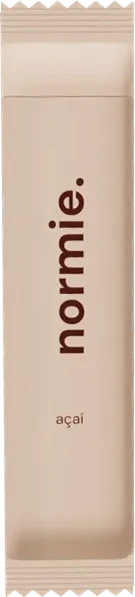
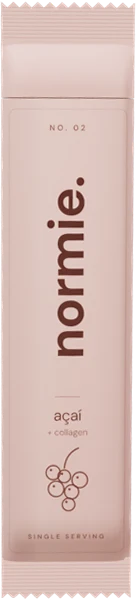
Preview: redesigned packets, hero back to live look
- Labels: tonal gradient, inset frame, NO. 01-03, flavor note, line illustrations
- Soft-touch materials, finer crimps, extra fill and rim light
- Recut stick images for pour animation and mobile poster
- Remove hero color blobs

Claude-Session: https://claude.ai/code/session_01AsfYy7Hh7JQZ22psSenmVY

diff --git a/index.html b/index.html
@@ -1,4 +1,4 @@
-<!doctype html><html lang="en"><head><meta charset="UTF-8"><meta http-equiv="Content-Security-Policy" content="default-src 'self'; script-src 'self'; style-src 'self' 'unsafe-inline'; img-src 'self' data: blob:; media-src 'self'; font-src 'self'; connect-src 'self' https://*.supabase.co wss://*.supabase.co; form-action 'self'; base-uri 'self'; object-src 'none'"><meta name="referrer" content="strict-origin-when-cross-origin"><meta name="viewport" content="width=device-width,initial-scale=1"><meta name="theme-color" content="#f5f2eb"><meta name="description" content="Build a 6- or 12-pack of normie drink sticks: matcha, açaí + collagen, and tiramisu coffee. Tear, pour, stir. Reserve your first box and get 10% off."><title>normie. matcha, açaí + collagen, and tiramisu coffee drink sticks</title><link rel="canonical" href="https://buynormie.com/"><meta property="og:type" content="website"><meta property="og:site_name" content="normie."><meta property="og:title" content="normie. matcha, açaí + collagen, and tiramisu coffee drink sticks"><meta property="og:description" content="Build a 6- or 12-pack of normie drink sticks: matcha, açaí + collagen, and tiramisu coffee. Tear, pour, stir. Reserve your first box and get 10% off."><meta property="og:url" content="https://buynormie.com/"><meta property="og:image" content="https://buynormie.com/assets/og-home.jpg"><meta property="og:image:width" content="1200"><meta property="og:image:height" content="630"><meta name="twitter:card" content="summary_large_image"><meta name="twitter:title" content="normie. matcha, açaí + collagen, and tiramisu coffee drink sticks"><meta name="twitter:description" content="Build a 6- or 12-pack of normie drink sticks: matcha, açaí + collagen, and tiramisu coffee. Tear, pour, stir. Reserve your first box and get 10% off."><meta name="twitter:image" content="https://buynormie.com/assets/og-home.jpg"><link rel="icon" href="./assets/favicon.svg"><link rel="preload" as="font" href="./assets/dm-sans-regular.ttf" type="font/ttf" crossorigin><link rel="stylesheet" href="./styles.css?v=20261112a"><script src="./vendor/supabase.js"></script><script type="module" src="./app.js?v=20261112a"></script><script type="module" src="./studio-loader.js?v=20261112a"></script><script type="module" src="./order.js?v=20261112a"></script><script type="module" src="./pour.js?v=20261112a"></script><script type="module" src="./fx.js?v=20261112a"></script></head><body data-page="home"><a href="#main" class="skip-link">Skip to content</a><div class="announcement">first boxes are coming <span aria-hidden="true">✦</span> <a href="#order">reserve your box</a></div><header class="header"><div class="header-inner"><button class="icon-button mobile-only" data-open="menu" aria-label="Open menu"><span class="menu-icon" aria-hidden="true"></span></button><a class="wordmark" href="./index.html" aria-label="Normie home">normie.</a><nav class="desktop-nav" aria-label="Main navigation"><div class="nav-dropdown"><button class="nav-link" aria-expanded="false" aria-controls="collection-menu" data-nav-toggle>the collection <span aria-hidden="true">⌄</span></button><div class="mega-menu" id="collection-menu" hidden><p class="eyebrow">find your everyday</p><div class="mega-products"><a href="./products/matcha/index.html"><div class="image-frame " style="--product-color:#dce3ce"><img src="./assets/matcha.webp" alt="Normie matcha stick with a prepared drink." width="1024" height="1280" loading="lazy" decoding="async"><span class="image-error" hidden>normie. matcha<small>Image unavailable. Explore the flavor details below.</small></span></div><span>matcha ↗</span></a><a href="./products/acai/index.html"><div class="image-frame " style="--product-color:#ead8d9"><img src="./assets/acai.webp" alt="Normie açaí stick with a prepared drink." width="1024" height="1280" loading="lazy" decoding="async"><span class="image-error" hidden>normie. açaí<small>Image unavailable. Explore the flavor details below.</small></span></div><span>açaí ↗</span></a><a href="./products/coffee/index.html"><div class="image-frame " style="--product-color:#e4d7c7"><img src="./assets/coffee.webp" alt="Normie tiramisu coffee stick with a prepared drink." width="1024" height="1280" loading="lazy" decoding="async"><span class="image-error" hidden>normie. tiramisu coffee<small>Image unavailable. Explore the flavor details below.</small></span></div><span>tiramisu coffee ↗</span></a></div><a class="text-link" href="./collection/index.html">explore all flavors ↗</a></div></div><a class="nav-link" href="./about/index.html">our story</a><a class="nav-link" href="./help/index.html">good to know</a></nav><div class="header-actions"><a class="account-pill" href="./index.html#account" data-account-open aria-label="Sign in or view your account"><svg viewBox="0 0 24 24" aria-hidden="true"><circle cx="12" cy="8.5" r="3.8"/><path d="M4.5 20.5c1.4-3.6 4.2-5.4 7.5-5.4s6.1 1.8 7.5 5.4"/></svg><span class="account-label" data-account-label>sign in</span></a><a class="order-pill" href="#order" data-track="cta_reserve_header">reserve</a><button class="icon-button" data-open="search" aria-label="Search flavors"><svg viewBox="0 0 24 24" aria-hidden="true"><circle cx="10.5" cy="10.5" r="6.5"/><path d="m16 16 5 5"/></svg></button><button class="bag-button" data-open="saved" aria-label="Your saved flavors"><span class="desktop-only">your shortlist</span><svg class="mobile-only" viewBox="0 0 24 24" aria-hidden="true"><path d="M5 5h14v17l-7-5-7 5z"/></svg><span class="save-count">0</span></button></div></div><div class="scroll-progress" aria-hidden="true"><span></span></div></header><div class="header-sentinel" aria-hidden="true"></div><main id="main"><section class="pop-hero"><div class="hero-blobs" aria-hidden="true"><span class="b1"></span><span class="b2"></span><span class="b3"></span></div><div class="pop-hero-inner"><div class="pop-hero-copy"><p class="pop-kicker">matcha · açaí · tiramisu coffee</p><h1>a little ritual.<br>all yours.</h1><p class="pop-lead">Build a 6-pack or 12-pack of matcha, açaí and tiramisu coffee drink sticks, mixed your way. Tear, pour, and stir into cold water or milk.</p><div class="pop-actions"><a class="pop-btn" href="#order" data-track="cta_reserve_hero">reserve your box</a><a class="pop-link" href="#order">build your box ↓</a></div><ul class="hero-chips" aria-label="Why normie"><li><svg viewBox="0 0 16 16" aria-hidden="true"><path d="M3.5 8.5l3 3 6-7" fill="none" stroke="currentColor" stroke-width="1.8" stroke-linecap="round" stroke-linejoin="round"/></svg>3 flavors</li><li><svg viewBox="0 0 16 16" aria-hidden="true"><path d="M3.5 8.5l3 3 6-7" fill="none" stroke="currentColor" stroke-width="1.8" stroke-linecap="round" stroke-linejoin="round"/></svg>mix your own box</li><li><svg viewBox="0 0 16 16" aria-hidden="true"><path d="M3.5 8.5l3 3 6-7" fill="none" stroke="currentColor" stroke-width="1.8" stroke-linecap="round" stroke-linejoin="round"/></svg>rewards on every box</li></ul><p class="waitlist-count" data-waitlist-count hidden><span class="status-dot" aria-hidden="true"></span><span data-count></span> people are waiting for their first box</p></div><div class="studio pop-studio" data-studio="all" data-bare data-zoom="0.6"><div class="studio-stage"><canvas class="studio-canvas" tabindex="0" role="img" aria-label="Interactive 3D view of the three normie drink sticks. Drag to turn them, tap one to pick it."></canvas><span class="studio-hint" aria-hidden="true">drag to turn · tap a stick</span><p class="studio-fallback-note small">3D view unavailable in this browser.</p></div><p class="sr-only studio-status" aria-live="polite"></p></div></div></section>
+<!doctype html><html lang="en"><head><meta charset="UTF-8"><meta http-equiv="Content-Security-Policy" content="default-src 'self'; script-src 'self'; style-src 'self' 'unsafe-inline'; img-src 'self' data: blob:; media-src 'self'; font-src 'self'; connect-src 'self' https://*.supabase.co wss://*.supabase.co; form-action 'self'; base-uri 'self'; object-src 'none'"><meta name="referrer" content="strict-origin-when-cross-origin"><meta name="viewport" content="width=device-width,initial-scale=1"><meta name="theme-color" content="#f5f2eb"><meta name="description" content="Build a 6- or 12-pack of normie drink sticks: matcha, açaí + collagen, and tiramisu coffee. Tear, pour, stir. Reserve your first box and get 10% off."><title>normie. matcha, açaí + collagen, and tiramisu coffee drink sticks</title><link rel="canonical" href="https://buynormie.com/"><meta property="og:type" content="website"><meta property="og:site_name" content="normie."><meta property="og:title" content="normie. matcha, açaí + collagen, and tiramisu coffee drink sticks"><meta property="og:description" content="Build a 6- or 12-pack of normie drink sticks: matcha, açaí + collagen, and tiramisu coffee. Tear, pour, stir. Reserve your first box and get 10% off."><meta property="og:url" content="https://buynormie.com/"><meta property="og:image" content="https://buynormie.com/assets/og-home.jpg"><meta property="og:image:width" content="1200"><meta property="og:image:height" content="630"><meta name="twitter:card" content="summary_large_image"><meta name="twitter:title" content="normie. matcha, açaí + collagen, and tiramisu coffee drink sticks"><meta name="twitter:description" content="Build a 6- or 12-pack of normie drink sticks: matcha, açaí + collagen, and tiramisu coffee. Tear, pour, stir. Reserve your first box and get 10% off."><meta name="twitter:image" content="https://buynormie.com/assets/og-home.jpg"><link rel="icon" href="./assets/favicon.svg"><link rel="preload" as="font" href="./assets/dm-sans-regular.ttf" type="font/ttf" crossorigin><link rel="stylesheet" href="./styles.css?v=20261112a"><script src="./vendor/supabase.js"></script><script type="module" src="./app.js?v=20261112a"></script><script type="module" src="./studio-loader.js?v=20261112a"></script><script type="module" src="./order.js?v=20261112a"></script><script type="module" src="./pour.js?v=20261112a"></script><script type="module" src="./fx.js?v=20261112a"></script></head><body data-page="home"><a href="#main" class="skip-link">Skip to content</a><div class="announcement">first boxes are coming <span aria-hidden="true">✦</span> <a href="#order">reserve your box</a></div><header class="header"><div class="header-inner"><button class="icon-button mobile-only" data-open="menu" aria-label="Open menu"><span class="menu-icon" aria-hidden="true"></span></button><a class="wordmark" href="./index.html" aria-label="Normie home">normie.</a><nav class="desktop-nav" aria-label="Main navigation"><div class="nav-dropdown"><button class="nav-link" aria-expanded="false" aria-controls="collection-menu" data-nav-toggle>the collection <span aria-hidden="true">⌄</span></button><div class="mega-menu" id="collection-menu" hidden><p class="eyebrow">find your everyday</p><div class="mega-products"><a href="./products/matcha/index.html"><div class="image-frame " style="--product-color:#dce3ce"><img src="./assets/matcha.webp" alt="Normie matcha stick with a prepared drink." width="1024" height="1280" loading="lazy" decoding="async"><span class="image-error" hidden>normie. matcha<small>Image unavailable. Explore the flavor details below.</small></span></div><span>matcha ↗</span></a><a href="./products/acai/index.html"><div class="image-frame " style="--product-color:#ead8d9"><img src="./assets/acai.webp" alt="Normie açaí stick with a prepared drink." width="1024" height="1280" loading="lazy" decoding="async"><span class="image-error" hidden>normie. açaí<small>Image unavailable. Explore the flavor details below.</small></span></div><span>açaí ↗</span></a><a href="./products/coffee/index.html"><div class="image-frame " style="--product-color:#e4d7c7"><img src="./assets/coffee.webp" alt="Normie tiramisu coffee stick with a prepared drink." width="1024" height="1280" loading="lazy" decoding="async"><span class="image-error" hidden>normie. tiramisu coffee<small>Image unavailable. Explore the flavor details below.</small></span></div><span>tiramisu coffee ↗</span></a></div><a class="text-link" href="./collection/index.html">explore all flavors ↗</a></div></div><a class="nav-link" href="./about/index.html">our story</a><a class="nav-link" href="./help/index.html">good to know</a></nav><div class="header-actions"><a class="account-pill" href="./index.html#account" data-account-open aria-label="Sign in or view your account"><svg viewBox="0 0 24 24" aria-hidden="true"><circle cx="12" cy="8.5" r="3.8"/><path d="M4.5 20.5c1.4-3.6 4.2-5.4 7.5-5.4s6.1 1.8 7.5 5.4"/></svg><span class="account-label" data-account-label>sign in</span></a><a class="order-pill" href="#order" data-track="cta_reserve_header">reserve</a><button class="icon-button" data-open="search" aria-label="Search flavors"><svg viewBox="0 0 24 24" aria-hidden="true"><circle cx="10.5" cy="10.5" r="6.5"/><path d="m16 16 5 5"/></svg></button><button class="bag-button" data-open="saved" aria-label="Your saved flavors"><span class="desktop-only">your shortlist</span><svg class="mobile-only" viewBox="0 0 24 24" aria-hidden="true"><path d="M5 5h14v17l-7-5-7 5z"/></svg><span class="save-count">0</span></button></div></div><div class="scroll-progress" aria-hidden="true"><span></span></div></header><div class="header-sentinel" aria-hidden="true"></div><main id="main"><section class="pop-hero"><div class="pop-hero-inner"><div class="pop-hero-copy"><p class="pop-kicker">matcha · açaí · tiramisu coffee</p><h1>a little ritual.<br>all yours.</h1><p class="pop-lead">Build a 6-pack or 12-pack of matcha, açaí and tiramisu coffee drink sticks, mixed your way. Tear, pour, and stir into cold water or milk.</p><div class="pop-actions"><a class="pop-btn" href="#order" data-track="cta_reserve_hero">reserve your box</a><a class="pop-link" href="#order">build your box ↓</a></div><ul class="hero-chips" aria-label="Why normie"><li><svg viewBox="0 0 16 16" aria-hidden="true"><path d="M3.5 8.5l3 3 6-7" fill="none" stroke="currentColor" stroke-width="1.8" stroke-linecap="round" stroke-linejoin="round"/></svg>3 flavors</li><li><svg viewBox="0 0 16 16" aria-hidden="true"><path d="M3.5 8.5l3 3 6-7" fill="none" stroke="currentColor" stroke-width="1.8" stroke-linecap="round" stroke-linejoin="round"/></svg>mix your own box</li><li><svg viewBox="0 0 16 16" aria-hidden="true"><path d="M3.5 8.5l3 3 6-7" fill="none" stroke="currentColor" stroke-width="1.8" stroke-linecap="round" stroke-linejoin="round"/></svg>rewards on every box</li></ul><p class="waitlist-count" data-waitlist-count hidden><span class="status-dot" aria-hidden="true"></span><span data-count></span> people are waiting for their first box</p></div><div class="studio pop-studio" data-studio="all" data-bare data-zoom="0.6"><div class="studio-stage"><canvas class="studio-canvas" tabindex="0" role="img" aria-label="Interactive 3D view of the three normie drink sticks. Drag to turn them, tap one to pick it."></canvas><span class="studio-hint" aria-hidden="true">drag to turn · tap a stick</span><p class="studio-fallback-note small">3D view unavailable in this browser.</p></div><p class="sr-only studio-status" aria-live="polite"></p></div></div></section>
 <div class="pop-strip"><ul><li>6- or 12-packs</li><svg class="spark" viewBox="0 0 24 24" aria-hidden="true"><path d="M12 2c.6 4.6 2.4 7.4 10 10-7.6 2.6-9.4 5.4-10 10-.6-4.6-2.4-7.4-10-10 7.6-2.6 9.4-5.4 10-10z"/></svg><li>mix your flavors</li><svg class="spark" viewBox="0 0 24 24" aria-hidden="true"><path d="M12 2c.6 4.6 2.4 7.4 10 10-7.6 2.6-9.4 5.4-10 10-.6-4.6-2.4-7.4-10-10 7.6-2.6 9.4-5.4 10-10z"/></svg><li>tear, pour, stir</li><svg class="spark" viewBox="0 0 24 24" aria-hidden="true"><path d="M12 2c.6 4.6 2.4 7.4 10 10-7.6 2.6-9.4 5.4-10 10-.6-4.6-2.4-7.4-10-10 7.6-2.6 9.4-5.4 10-10z"/></svg><li>cold water or milk</li><svg class="spark" viewBox="0 0 24 24" aria-hidden="true"><path d="M12 2c.6 4.6 2.4 7.4 10 10-7.6 2.6-9.4 5.4-10 10-.6-4.6-2.4-7.4-10-10 7.6-2.6 9.4-5.4 10-10z"/></svg><li>3 flavors</li></ul></div>
 <section class="pour" data-pour aria-labelledby="pour-title"><div class="pour-sticky"><div class="pour-copy"><p class="pop-kicker">how it works</p><h2 id="pour-title">tear. pour. stir.</h2><ol class="pour-steps"><li class="is-active"><span class="how-num" aria-hidden="true">1</span><div><h3>tear.</h3><p>Rip the top off one stick. Each one is a single serving.</p></div></li><li><span class="how-num" aria-hidden="true">2</span><div><h3>pour.</h3><p>Empty it into 8 to 12 oz of cold water or milk.</p></div></li><li><span class="how-num" aria-hidden="true">3</span><div><h3>stir.</h3><p>Stir or shake for 15 seconds. Add ice. That’s it.</p></div></li></ol><div class="pour-flavors" role="group" aria-label="Show flavor"><button type="button" data-pour-flavor="matcha" aria-pressed="true">matcha</button><button type="button" data-pour-flavor="acai" aria-pressed="false">açaí</button><button type="button" data-pour-flavor="coffee" aria-pressed="false">tiramisu coffee</button></div></div><canvas class="pour-canvas" aria-hidden="true"></canvas></div></section>
 <section class="order pop-order" id="order" aria-labelledby="order-title"><div class="pop-order-head"><p class="pop-kicker">build your box</p><h2 id="order-title">mix it your way.</h2><p class="order-sub">Grab the normie special, 4 of each flavor, or build a 6-pack or 12-pack and choose how many of each go in. Reserve it now; no payment until launch.</p><p class="waitlist-count" data-waitlist-count hidden><span class="status-dot" aria-hidden="true"></span><span data-count></span> people are waiting for their first box</p></div><div class="pack-picker" role="radiogroup" aria-label="Pack size"><button type="button" role="radio" aria-checked="true" data-pack="special" class="pack-special"><span class="pack-radio" aria-hidden="true"></span><span class="pack-badge">set box</span><span class="pack-name">the normie special</span><span class="pack-meta">12 sticks · 4 of each flavor</span><span class="pack-price" data-pack-price="special">price at launch</span><span class="pack-per" data-pack-per="special"></span></button><button type="button" role="radio" aria-checked="false" data-pack="6"><span class="pack-radio" aria-hidden="true"></span><span class="pack-name">6-pack</span><span class="pack-meta">6 sticks · you pick</span><span class="pack-price" data-pack-price="6">price at launch</span><span class="pack-per" data-pack-per="6"></span></button><button type="button" role="radio" aria-checked="false" data-pack="12"><span class="pack-radio" aria-hidden="true"></span><span class="pack-name">12-pack</span><span class="pack-meta">12 sticks · you pick</span><span class="pack-price" data-pack-price="12">price at launch</span><span class="pack-per" data-pack-per="12"></span></button></div><div class="mix-bar"><p data-mix-progress aria-live="polite">set box · 4 of each flavor · 12 sticks</p><button type="button" class="mix-even" data-mix-even>even mix</button></div><div class="box-slots-wrap"><p class="box-slots-label">your box</p><ol class="box-slots" data-box-slots aria-label="Sticks in your box"></ol></div><ul class="order-list tiles"><li class="order-row tile tile-matcha" data-flavor="matcha"><div class="tile-media"><img src="./assets/matcha.webp" alt="normie matcha stick with a prepared drink." width="1024" height="1280" loading="lazy" decoding="async"></div><div class="tile-body"><div class="order-pick"><span class="order-name">matcha</span><span class="order-note">earthy. green. unmistakably matcha.</span></div><div class="stepper" role="group" aria-label="matcha sticks"><button type="button" data-step="-1" aria-label="One less matcha stick">−</button><output data-qty aria-live="polite">4</output><button type="button" data-step="1" aria-label="One more matcha stick">+</button></div></div></li><li class="order-row tile tile-acai" data-flavor="acai"><div class="tile-media"><img src="./assets/acai.webp" alt="normie açaí stick with a prepared drink." width="1024" height="1280" loading="lazy" decoding="async"></div><div class="tile-body"><div class="order-pick"><span class="order-name">açaí</span><span class="order-note">berry-forward. a little different.</span></div><div class="stepper" role="group" aria-label="açaí sticks"><button type="button" data-step="-1" aria-label="One less açaí stick">−</button><output data-qty aria-live="polite">4</output><button type="button" data-step="1" aria-label="One more açaí stick">+</button></div></div></li><li class="order-row tile tile-coffee" data-flavor="coffee"><div class="tile-media"><img src="./assets/coffee.webp" alt="normie tiramisu coffee stick with a prepared drink." width="1024" height="1280" loading="lazy" decoding="async"></div><div class="tile-body"><div class="order-pick"><span class="order-name">tiramisu coffee</span><span class="order-note">coffee first. always.</span></div><div class="stepper" role="group" aria-label="coffee sticks"><button type="button" data-step="-1" aria-label="One less tiramisu coffee stick">−</button><output data-qty aria-live="polite">4</output><button type="button" data-step="1" aria-label="One more tiramisu coffee stick">+</button></div></div></li></ul><div class="order-panel order-bar"><div class="order-summary"><p class="order-count" data-mix-summary>the normie special · 4 matcha, 4 açaí, 4 tiramisu coffee</p><p class="order-total" data-summary-total>price at launch</p></div><button type="button" class="pop-btn order-checkout" data-checkout data-track="cta_reserve_builder"><span>reserve your box</span></button><p class="small order-status" data-order-status aria-live="polite">No payment now. We save your mix and email you first when boxes ship.</p><form class="reserve-form" data-reserve-form novalidate hidden><p class="reserve-mix" data-reserve-mix></p><label for="reserve-email">email for your reservation</label><div class="rewards-field"><input id="reserve-email" name="email" type="email" autocomplete="email" placeholder="you@email.com" required><button type="submit" class="pop-btn">save my box</button></div><p class="small rewards-status" data-reserve-status aria-live="polite">We’ll email you first when boxes ship. Unsubscribe anytime. See our <a href="./privacy/index.html">Privacy Policy</a> and <a href="./terms/index.html">Terms</a>.</p></form><p class="small order-rewards-note">10% off your first box, plus a free box after 5. <a href="#rewards">join rewards ↓</a></p></div></section>

diff --git a/studio3d.js b/studio3d.js
@@ -7,53 +7,89 @@ const reduced = matchMedia('(prefers-reduced-motion: reduce)').matches;
 const finePointer = matchMedia('(hover: hover) and (pointer: fine)').matches;
 
 const FLAVORS = {
-  matcha: { name: 'matcha', note: 'earthy. green. unmistakably matcha.', pack: '#aab58b', ink: '#2c3a20', stage: '#e9dfcc', powder: '#86a35a', drink: '#9dbb72', drinkTop: '#c9d9a8' },
-  acai:   { name: 'açaí',   note: 'berry-forward. a little different.',   pack: '#f0cdbf', ink: '#5e302c', stage: '#ecdccc', powder: '#6e2d4a', drink: '#5b2340', drinkTop: '#8a4766' },
-  coffee: { name: 'tiramisu coffee', note: 'coffee first. always.',               pack: '#cfa36d', ink: '#3d2412', stage: '#eadbc6', powder: '#5c3f2a', drink: '#a57a55', drinkTop: '#d9bf9f' },
+  matcha: { name: 'matcha', note: 'earthy. green. unmistakably matcha.', pack: '#afbd90', ink: '#2c3a20', stage: '#e9dfcc', powder: '#86a35a', drink: '#9dbb72', drinkTop: '#c9d9a8' },
+  acai:   { name: 'açaí',   note: 'berry-forward. a little different.',   pack: '#ecc0c8', ink: '#5e302c', stage: '#ecdccc', powder: '#6e2d4a', drink: '#5b2340', drinkTop: '#8a4766' },
+  coffee: { name: 'tiramisu coffee', note: 'coffee first. always.',               pack: '#d6b083', ink: '#3d2412', stage: '#eadbc6', powder: '#5c3f2a', drink: '#a57a55', drinkTop: '#d9bf9f' },
 };
 const ORDER = ['matcha', 'acai', 'coffee'];
 
 /* ---------- textures ---------- */
-function labelTexture(f, back = false) {
+const NOTE = { matcha: 'with L-theanine', acai: '+ collagen', coffee: 'with citicoline' };
+const NUM = { matcha: '01', acai: '02', coffee: '03' };
+function shade(hex, amt) {
+  const n = parseInt(hex.slice(1), 16);
+  const ch = s => Math.max(0, Math.min(255, Math.round(((n >> s) & 255) + amt * 255)));
+  return `rgb(${ch(16)},${ch(8)},${ch(0)})`;
+}
+function spaced(g, text, x, y, px) { try { g.letterSpacing = `${px}px`; } catch (e) {} g.fillText(text, x, y); try { g.letterSpacing = '0px'; } catch (e) {} }
+function illustration(g, key, cx, cy, ink) {
+  g.save(); g.translate(cx, cy); g.scale(1.45, 1.45); g.strokeStyle = ink; g.fillStyle = ink; g.lineWidth = 4; g.lineCap = 'round'; g.lineJoin = 'round';
+  if (key === 'matcha') {
+    const leaf = (rot, s) => { g.save(); g.rotate(rot); g.scale(s, s);
+      g.beginPath(); g.moveTo(0, 60); g.bezierCurveTo(-48, 20, -40, -50, 0, -78); g.bezierCurveTo(40, -50, 48, 20, 0, 60); g.stroke();
+      g.beginPath(); g.moveTo(0, 70); g.lineTo(0, -60); g.stroke();
+      for (let i = 0; i < 3; i++) { const y = 30 - i * 26; g.beginPath(); g.moveTo(0, y); g.lineTo(-22 + i * 4, y - 20); g.moveTo(0, y); g.lineTo(22 - i * 4, y - 20); g.stroke(); }
+      g.restore(); };
+    g.translate(-26, 0); leaf(-0.38, 0.82); g.translate(52, 6); leaf(0.42, 0.92);
+  } else if (key === 'acai') {
+    [[-30, 10], [12, 18], [-8, -24], [34, -14], [-38, -34], [4, 52]].forEach(([x, y], i) => {
+      g.beginPath(); g.arc(x, y, 21 - (i % 3) * 2, 0, Math.PI * 2); g.stroke();
+      g.beginPath(); g.arc(x - 6, y - 7, 3.5, 0, Math.PI * 2); g.fill();
+    });
+    g.beginPath(); g.moveTo(-8, -46); g.quadraticCurveTo(-4, -86, 30, -100); g.stroke();
+  } else {
+    const bean = (x, y, rot) => { g.save(); g.translate(x, y); g.rotate(rot);
+      g.beginPath(); g.ellipse(0, 0, 30, 44, 0, 0, Math.PI * 2); g.stroke();
+      g.beginPath(); g.moveTo(0, -38); g.bezierCurveTo(-14, -12, 14, 12, 0, 38); g.stroke(); g.restore(); };
+    bean(-30, 8, -0.5); bean(32, -10, 0.45);
+  }
+  g.restore();
+}
+function labelTexture(f, back = false, key = 'matcha') {
   const c = document.createElement('canvas');
   c.width = 512; c.height = 1792;
   const g = c.getContext('2d');
-  g.fillStyle = f.pack; g.fillRect(0, 0, c.width, c.height);
-  // soft paper grain
+  // tonal base: lighter at the top, a touch deeper at the bottom
+  const base = g.createLinearGradient(0, 0, 0, c.height);
+  base.addColorStop(0, shade(f.pack, 0.05)); base.addColorStop(0.55, f.pack); base.addColorStop(1, shade(f.pack, -0.06));
+  g.fillStyle = base; g.fillRect(0, 0, c.width, c.height);
+  // fine paper grain
   const img = g.getImageData(0, 0, c.width, c.height);
-  for (let i = 0; i < img.data.length; i += 4) {
-    const n = (Math.random() - 0.5) * 10;
-    img.data[i] += n; img.data[i + 1] += n; img.data[i + 2] += n;
-  }
+  for (let i = 0; i < img.data.length; i += 4) { const n = (Math.random() - 0.5) * 6; img.data[i] += n; img.data[i + 1] += n; img.data[i + 2] += n; }
   g.putImageData(img, 0, 0);
-  // matte sheen
+  // soft-touch sheen
   const sh = g.createLinearGradient(0, 0, c.width, 0);
-  sh.addColorStop(0, 'rgba(0,0,0,0.10)'); sh.addColorStop(0.35, 'rgba(255,255,255,0.10)');
-  sh.addColorStop(0.6, 'rgba(255,255,255,0.02)'); sh.addColorStop(1, 'rgba(0,0,0,0.12)');
+  sh.addColorStop(0, 'rgba(0,0,0,0.08)'); sh.addColorStop(0.3, 'rgba(255,255,255,0.12)');
+  sh.addColorStop(0.62, 'rgba(255,255,255,0.03)'); sh.addColorStop(1, 'rgba(0,0,0,0.10)');
   g.fillStyle = sh; g.fillRect(0, 0, c.width, c.height);
-  g.fillStyle = f.ink; g.textBaseline = 'middle';
+  g.fillStyle = f.ink; g.strokeStyle = f.ink; g.textBaseline = 'middle'; g.textAlign = 'center';
+  // hairline inset frame
+  g.save(); g.globalAlpha = 0.22; g.lineWidth = 2.5;
+  g.beginPath(); g.roundRect(30, 40, c.width - 60, c.height - 80, 26); g.stroke(); g.restore();
   if (!back) {
-    g.save(); g.translate(c.width / 2 + 8, 640); g.rotate(-Math.PI / 2);
-    g.font = '700 186px DM, Arial, sans-serif'; g.textAlign = 'center';
-    g.fillText('normie.', 0, 0); g.restore();
-    g.textAlign = 'center';
-    let fs = 58; g.font = `400 ${fs}px DM, Arial, sans-serif`;
-    while (fs > 30 && g.measureText(f.name).width > c.width * 0.82) { fs -= 2; g.font = `400 ${fs}px DM, Arial, sans-serif`; }
-    g.fillText(f.name, c.width / 2, 1230);
+    g.save(); g.globalAlpha = 0.7; g.font = '700 30px DM, Arial, sans-serif';
+    spaced(g, `NO. ${NUM[key]}`, c.width / 2, 112, 8); g.restore();
+    g.save(); g.translate(c.width / 2 + 10, 640); g.rotate(-Math.PI / 2);
+    g.font = '700 196px DM, Arial, sans-serif'; spaced(g, 'normie.', 0, 0, -4); g.restore();
+    g.save(); g.globalAlpha = 0.45; g.fillRect(c.width / 2 - 50, 1132, 100, 3); g.restore();
+    let fs = 60; g.font = `400 ${fs}px DM, Arial, sans-serif`;
+    while (fs > 30 && g.measureText(f.name).width > c.width * 0.78) { fs -= 2; g.font = `400 ${fs}px DM, Arial, sans-serif`; }
+    spaced(g, f.name, c.width / 2, 1210, -1);
+    g.save(); g.globalAlpha = 0.75; g.font = '400 34px DM, Arial, sans-serif'; g.fillText(NOTE[key], c.width / 2, 1274); g.restore();
+    g.save(); g.globalAlpha = 0.85; illustration(g, key, c.width / 2, 1478, f.ink); g.restore();
+    g.save(); g.globalAlpha = 0.6; g.font = '700 26px DM, Arial, sans-serif'; spaced(g, 'SINGLE SERVING', c.width / 2, 1684, 7); g.restore();
   } else {
-    g.font = '700 54px DM, Arial, sans-serif'; g.textAlign = 'center';
-    g.fillText('normie.', c.width / 2, 240);
-    g.font = '400 28px DM, Arial, sans-serif'; g.globalAlpha = 0.8;
-    ['tear here', '', 'pour into', 'cold water or milk.', 'stir. sip.', 'make it yours.'].forEach((t, i) => g.fillText(t, c.width / 2, 980 + i * 46));
-    g.globalAlpha = 0.6;
-    g.fillText('concept packaging', c.width / 2, 1620);
-    g.fillText('in development', c.width / 2, 1660);
-    // tear line marker
-    g.globalAlpha = 0.5; g.setLineDash([14, 10]); g.lineWidth = 3; g.strokeStyle = f.ink;
-    g.beginPath(); g.moveTo(40, 120); g.lineTo(c.width - 40, 120); g.stroke();
+    g.font = '700 58px DM, Arial, sans-serif'; g.fillText('normie.', c.width / 2, 250);
+    g.save(); g.globalAlpha = 0.5; g.setLineDash([12, 10]); g.lineWidth = 2.5;
+    g.beginPath(); g.moveTo(60, 130); g.lineTo(c.width - 60, 130); g.stroke(); g.restore();
+    g.save(); g.globalAlpha = 0.6; g.font = '700 18px DM, Arial, sans-serif'; spaced(g, 'TEAR HERE', c.width / 2, 100, 5); g.restore();
+    g.font = '400 30px DM, Arial, sans-serif'; g.globalAlpha = 0.85;
+    ['tear.', 'pour into cold', 'water or milk.', 'stir. sip.'].forEach((t, i) => g.fillText(t, c.width / 2, 940 + i * 50));
+    g.globalAlpha = 0.6; g.font = '700 20px DM, Arial, sans-serif';
+    spaced(g, 'MAKE IT YOURS', c.width / 2, 1680, 6);
   }
   const t = new THREE.CanvasTexture(c);
-  t.colorSpace = THREE.SRGBColorSpace; t.anisotropy = 4;
+  t.colorSpace = THREE.SRGBColorSpace; t.anisotropy = 8;
   return t;
 }
 
@@ -62,10 +98,10 @@ const W = 0.62, D = 0.16, BODY_H = 2.2, CAP_H = 0.26, SEAL = 0.2;
 function ribTexture(f) {
   const c = document.createElement('canvas'); c.width = 16; c.height = 128;
   const g = c.getContext('2d'); g.fillStyle = f.pack; g.fillRect(0, 0, 16, 128);
-  for (let i = 0; i < 5; i++) {
-    const y = 22 + i * 17;
-    g.fillStyle = 'rgba(0,0,0,0.16)'; g.fillRect(0, y, 16, 4);
-    g.fillStyle = 'rgba(255,255,255,0.22)'; g.fillRect(0, y + 5, 16, 3);
+  for (let i = 0; i < 9; i++) {
+    const y = 16 + i * 11;
+    g.fillStyle = 'rgba(0,0,0,0.12)'; g.fillRect(0, y, 16, 3);
+    g.fillStyle = 'rgba(255,255,255,0.28)'; g.fillRect(0, y + 3, 16, 2);
   }
   const t = new THREE.CanvasTexture(c); t.colorSpace = THREE.SRGBColorSpace;
   t.wrapS = THREE.RepeatWrapping; t.repeat.set(1 / W, 1 / SEAL); t.offset.set(0.5, 0);
@@ -89,7 +125,7 @@ function pillow(h, taperTop, taperBottom) {
 }
 function sealGeo(serratedTop) {
   const s = new THREE.Shape();
-  const teeth = 14, hw = W / 2, tooth = 0.035;
+  const teeth = 22, hw = W / 2, tooth = 0.026;
   s.moveTo(-hw, 0);
   s.lineTo(hw, 0);
   if (serratedTop) {
@@ -106,16 +142,17 @@ function sealGeo(serratedTop) {
 
 function makePacket(key) {
   const f = FLAVORS[key];
-  const side = new THREE.MeshStandardMaterial({ color: f.pack, roughness: 0.62 });
-  const front = new THREE.MeshStandardMaterial({ map: labelTexture(f), roughness: 0.55 });
-  const back = new THREE.MeshStandardMaterial({ map: labelTexture(f, true), roughness: 0.6 });
+  const soft = { roughness: 0.48, clearcoat: 0.35, clearcoatRoughness: 0.42, sheen: 0.5, sheenRoughness: 0.55, sheenColor: new THREE.Color('#ffffff') };
+  const side = new THREE.MeshPhysicalMaterial({ color: f.pack, ...soft });
+  const front = new THREE.MeshPhysicalMaterial({ map: labelTexture(f, false, key), ...soft });
+  const back = new THREE.MeshPhysicalMaterial({ map: labelTexture(f, true, key), ...soft });
   const group = new THREE.Group();
   group.userData = { key, front, back };
 
   const body = new THREE.Mesh(pillow(BODY_H, false, true), [side, side, side, side, front, back]);
   body.position.y = 0; body.castShadow = true;
   group.add(body);
-  const sealMat = new THREE.MeshStandardMaterial({ map: ribTexture(f), roughness: 0.5 });
+  const sealMat = new THREE.MeshPhysicalMaterial({ map: ribTexture(f), roughness: 0.4, clearcoat: 0.5, clearcoatRoughness: 0.3 });
   const bottomSeal = new THREE.Mesh(sealGeo(true), sealMat);
   bottomSeal.rotation.z = Math.PI; bottomSeal.position.y = -BODY_H / 2 + 0.02; bottomSeal.castShadow = true;
   group.add(bottomSeal);
@@ -131,7 +168,7 @@ function makePacket(key) {
   cap.userData.home = cap.position.clone();
   group.add(cap);
   // notch hint
-  const notch = new THREE.Mesh(new THREE.BoxGeometry(W * 0.98, 0.008, D * 0.5), new THREE.MeshBasicMaterial({ color: f.ink, transparent: true, opacity: 0.25 }));
+  const notch = new THREE.Mesh(new THREE.BoxGeometry(W * 0.98, 0.008, D * 0.5), new THREE.MeshBasicMaterial({ color: f.ink, transparent: true, opacity: 0.12 }));
   notch.position.y = BODY_H / 2; group.add(notch);
   group.userData.cap = cap; group.userData.notch = notch; group.userData.body = body;
   group.userData.opening = new THREE.Vector3(0, BODY_H / 2, 0);
@@ -203,7 +240,8 @@ function initStudio(root) {
   sun.shadow.mapSize.set(1024, 1024); sun.shadow.camera.left = -4; sun.shadow.camera.right = 4;
   sun.shadow.camera.top = 4; sun.shadow.camera.bottom = -4; sun.shadow.radius = 14; sun.shadow.bias = -0.0005;
   scene.add(sun);
-  const rim = new THREE.DirectionalLight('#ffffff', 0.9); rim.position.set(4, 3, -4); scene.add(rim);
+  const rim = new THREE.DirectionalLight('#ffffff', 1.6); rim.position.set(4, 3, -4); scene.add(rim);
+  const fill = new THREE.DirectionalLight('#ffe9d2', 0.7); fill.position.set(5, 2, 5); scene.add(fill);
 
   const world = new THREE.Group(); scene.add(world);
   // stone plinth
@@ -497,11 +535,11 @@ function initStudio(root) {
   applyFlavor();
   document.addEventListener('visibilitychange', () => { if (!document.hidden) loop(); });
   // repaint labels once the brand font is ready
-  document.fonts && document.fonts.load('700 200px DM').then(() => {
+  document.fonts && Promise.all(['700 200px DM','400 30px DM'].map(x => document.fonts.load(x))).then(() => {
     packets.forEach(p => {
       const f = FLAVORS[p.userData.key];
-      p.userData.front.map.dispose(); p.userData.front.map = labelTexture(f); p.userData.front.needsUpdate = true;
-      p.userData.back.map.dispose(); p.userData.back.map = labelTexture(f, true); p.userData.back.needsUpdate = true;
+      p.userData.front.map.dispose(); p.userData.front.map = labelTexture(f, false, p.userData.key); p.userData.front.needsUpdate = true;
+      p.userData.back.map.dispose(); p.userData.back.map = labelTexture(f, true, p.userData.key); p.userData.back.needsUpdate = true;
     });
   }).catch(() => {});
   root.classList.add('studio-ready');

diff --git a/styles.css b/styles.css
@@ -511,14 +511,6 @@ html[data-reduced-motion=true]{scroll-behavior:auto}html[data-reduced-motion=tru
 }
 
 /* ===== motion preview ===== */
-.pop-hero{position:relative;isolation:isolate}
-.hero-blobs{position:absolute;inset:0;z-index:-1;pointer-events:none;overflow:hidden}
-.hero-blobs span{position:absolute;border-radius:50%;filter:blur(60px);opacity:.55;will-change:transform;animation:blob 30s ease-in-out infinite alternate}
-.hero-blobs .b1{width:42vw;height:42vw;max-width:620px;max-height:620px;background:#b8c995;left:42%;top:-12%}
-.hero-blobs .b2{width:34vw;height:34vw;max-width:520px;max-height:520px;background:#e3b3c4;left:66%;top:30%;animation-duration:36s;animation-delay:-10s}
-.hero-blobs .b3{width:30vw;height:30vw;max-width:460px;max-height:460px;background:#e2c08f;left:52%;top:52%;animation-duration:42s;animation-delay:-20s}
-@keyframes blob{0%{transform:translate(0,0) scale(1);border-radius:50% 46% 54% 48%}50%{transform:translate(-6%,8%) scale(1.12);border-radius:42% 58% 46% 54%}100%{transform:translate(8%,-4%) scale(.94);border-radius:56% 44% 50% 50%}}
-@media(max-width:800px){.hero-blobs span{filter:blur(40px);opacity:.45}.hero-blobs .b1{width:80vw;height:80vw;left:20%;top:30%}.hero-blobs .b2{width:60vw;height:60vw;left:50%;top:55%}.hero-blobs .b3{width:55vw;height:55vw;left:0;top:65%}}
 
 .pour{height:520vh;border-bottom:1px solid var(--line);background:linear-gradient(180deg,var(--cream),var(--sand) 70%);--pour-accent:#96ac68}
 .pour-sticky{position:sticky;top:0;height:100svh;max-width:1480px;margin:auto;display:grid;grid-template-columns:1fr 1.15fr;align-items:center;gap:24px;padding-left:max(16px,var(--gutter));padding-right:max(16px,var(--gutter))}
@@ -549,4 +541,3 @@ html[data-reduced-motion=true]{scroll-behavior:auto}html[data-reduced-motion=tru
 .slot-incoming{opacity:0}
 .slot-pop{animation:slotpop .45s cubic-bezier(.3,1.6,.5,1)}
 @keyframes slotpop{0%{transform:scale(.4)}100%{transform:scale(1)}}
-@media(prefers-reduced-motion:reduce){.hero-blobs span{animation:none}}

diff --git a/fx.js b/fx.js
@@ -1,15 +1,6 @@
-// Extra motion for the home page: hero color blobs with pointer parallax, and sticks that fly into the box.
+// Extra motion for the home page: sticks that fly into the box.
 const reduced = matchMedia('(prefers-reduced-motion: reduce)').matches;
 const ROOT = new URL('./', import.meta.url).href;
-
-// hero blobs follow the pointer a little
-const hero = document.querySelector('.pop-hero');
-const blobs = hero ? [...hero.querySelectorAll('.hero-blobs span')] : [];
-if (hero && blobs.length && !reduced && matchMedia('(pointer: fine)').matches) {
-  let tx = 0, ty = 0, x = 0, y = 0, raf = 0;
-  const tick = () => { x += (tx - x) * 0.03; y += (ty - y) * 0.03; blobs.forEach((b, i) => { const d = (i + 1) * 18; b.style.translate = `${x * d}px ${y * d}px`; }); raf = Math.abs(tx - x) + Math.abs(ty - y) > 0.001 ? requestAnimationFrame(tick) : 0; };
-  hero.addEventListener('pointermove', e => { const r = hero.getBoundingClientRect(); tx = (e.clientX - r.left) / r.width - 0.5; ty = (e.clientY - r.top) / r.height - 0.5; if (!raf) raf = requestAnimationFrame(tick); });
-}
 
 // a stick flies from the + button into its slot
 if (!reduced) document.addEventListener('click', e => {
